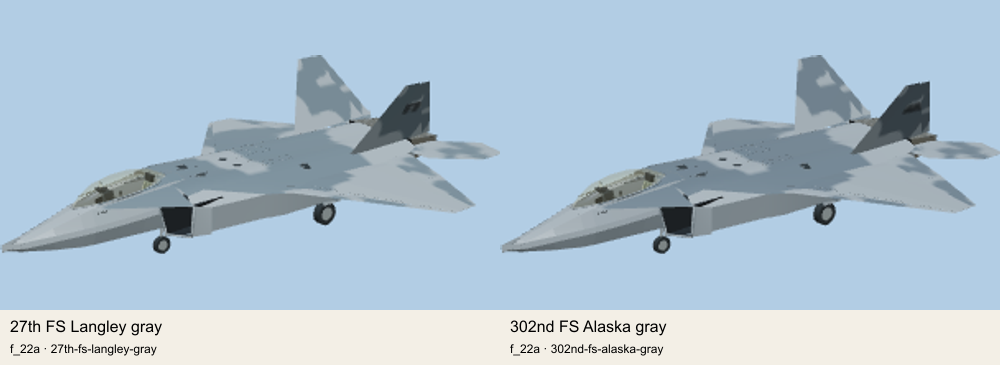
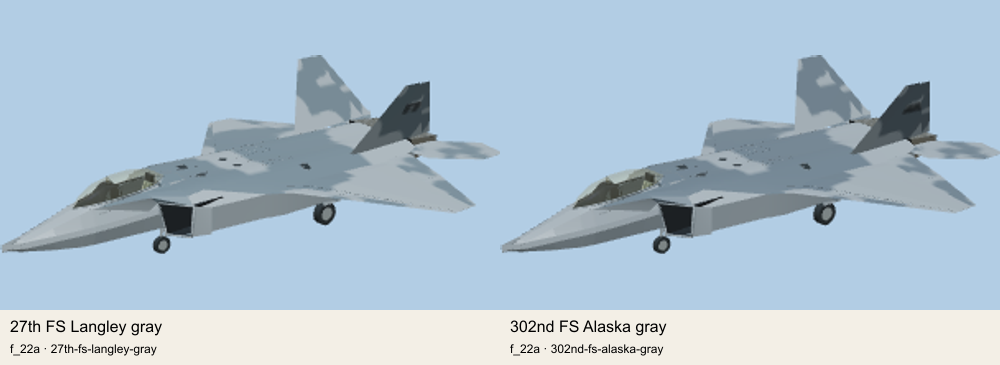
fix: Stabilize CI lighting and preview assets
Pins the world-explorer golden tests to a fixed UTC noon so day/night timing is deterministic on CI and its capture script can skip WebGPU when needed. The Earth night-lighting rig now stays hidden during daylight while preserving the fixed light budget, and terrain test coverage now includes night lamp fixtures. Refreshes the generated livery preview PNGs and manifest hashes for the updated aircraft renders.

Changed region(s): [[0.062, 0.4822, 0.186, 0.6027], [0.558, 0.4822, 0.682, 0.6027]]

diff --git a/packages/earth/test/night-spill.test.ts b/packages/earth/test/night-spill.test.ts
@@ -33,9 +33,11 @@ it('keeps a fixed light budget, positions street spill through floating origins,
   expect(points[0]?.position.toArray()).toEqual([1000, 7.8, 2012]);
   expect(points[0]?.getWorldPosition(new THREE.Vector3()).toArray()).toEqual([0, 7.8, 12]);
   lighting.update({ ...frame, factor: 0 });
-  expect(points.every((o) => o.visible && o.intensity === 0)).toBe(true);
+  expect(points.every((o) => o.intensity === 0)).toBe(true);
+  expect(lighting.object.visible).toBe(false);
   resident = false;
   lighting.update(frame);
+  expect(lighting.object.visible).toBe(true);
   expect(points.every((o) => o.intensity === 0)).toBe(true);
   lighting.dispose();
   expect(lighting.object.parent).toBeNull();
@@ -90,7 +92,8 @@ it('moves head/tail lenses and beams with traffic, excludes hidden agents, and b
   expect(front.count).toBe(10);
   lighting.update({ ...frame, factor: 0 });
   expect(front.count).toBe(0);
-  expect(beams.every((o) => o.visible && o.intensity === 0)).toBe(true);
+  expect(beams.every((o) => o.intensity === 0)).toBe(true);
+  expect(lighting.object.visible).toBe(false);
   lighting.dispose();
 });
 

diff --git a/packages/earth/src/client/night-lighting.ts b/packages/earth/src/client/night-lighting.ts
@@ -39,7 +39,8 @@ interface Car {
 
 /**
  * Sixteen street lights and four car beams keep shader/light counts constant as tiles stream.
- * Unused slots have zero intensity, including in daylight; none casts an extra shadow map.
+ * Unused slots have zero intensity; none casts an extra shadow map. Daylight hides the whole rig,
+ * since zero-intensity lights still cost every lit fragment; the first dusk compiles its variant.
  */
 export class EarthNightLighting {
   readonly object: THREE.Group = new THREE.Group();
@@ -96,6 +97,7 @@ export class EarthNightLighting {
     const night = Math.max(0, Math.min(1, frame.factor));
     for (const light of [...this.streets, ...this.beams]) light.intensity = 0;
     this.front.count = this.rear.count = 0;
+    this.object.visible = night > 0;
     if (night === 0) return;
     const { camera, direction } = frame;
     // Instance matrices are float32. Keep lenses near a local anchor so Earth coordinates

diff --git a/packages/terrain/test/semantic-client.test.ts b/packages/terrain/test/semantic-client.test.ts
@@ -145,10 +145,12 @@ describe('normalized semantic mesh adapter', () => {
         instances.push(child as THREE.InstancedMesh);
       }
     });
-    // Trees, plus the utility poles strung along the primary road's sidewalk.
+    // Trees, plus the utility poles strung along the primary road's sidewalk and their lamp heads.
     const fixtures = instances.filter((instance) => instance.name === 'surface:street-fixtures');
     expect(fixtures).toHaveLength(1);
-    const trees = instances.filter((instance) => !fixtures.includes(instance));
+    const lamps = instances.filter((instance) => instance.name === 'surface:night-lamps');
+    expect(lamps).toHaveLength(1);
+    const trees = instances.filter((instance) => !instance.name.startsWith('surface:'));
     expect(trees).toHaveLength(2);
     expect(trees.map((instance) => instance.count)).toEqual([8, 8]);
     expect(object.getObjectByName('semantic:landcover')).toBeInstanceOf(THREE.Mesh);

diff --git a/examples/world-explorer/test/golden/controls.golden.test.ts b/examples/world-explorer/test/golden/controls.golden.test.ts
@@ -36,8 +36,9 @@ it('moves the explorer from a connected joystick and suspends it while remapping
       });
       Object.assign(window, { joystickTestPad: pad });
     });
+    // Pin local noon: movement is per frame, and the default date is night on UTC CI.
     await page.goto(
-      `${url}/?synthetic=1&worldgen=0&mode=bare&ambient=0&audio=0&backend=webgl&quality=low`,
+      `${url}/?synthetic=1&worldgen=0&mode=bare&ambient=0&audio=0&backend=webgl&quality=low&date=2024-03-24T19:00:00Z`,
     );
     const status = page.locator('#navigation-status');
     const position = () =>

diff --git a/examples/world-explorer/test/golden/sky-slider.golden.test.ts b/examples/world-explorer/test/golden/sky-slider.golden.test.ts
@@ -79,7 +79,10 @@ describe('browser: sky time slider', () => {
         >;
       });
     try {
-      await page.goto(`${url}/index.html?synthetic=1&quality=economy&freeze=1&backend=webgl`);
+      // Pin local noon: the default (today, runner-zone noon) is pre-dawn Seattle on UTC CI.
+      await page.goto(
+        `${url}/index.html?synthetic=1&quality=economy&freeze=1&backend=webgl&date=2024-03-24T19:00:00Z`,
+      );
       await page.waitForFunction(
         () => document.querySelector('#location')?.textContent?.includes('Altitude'),
         undefined,
